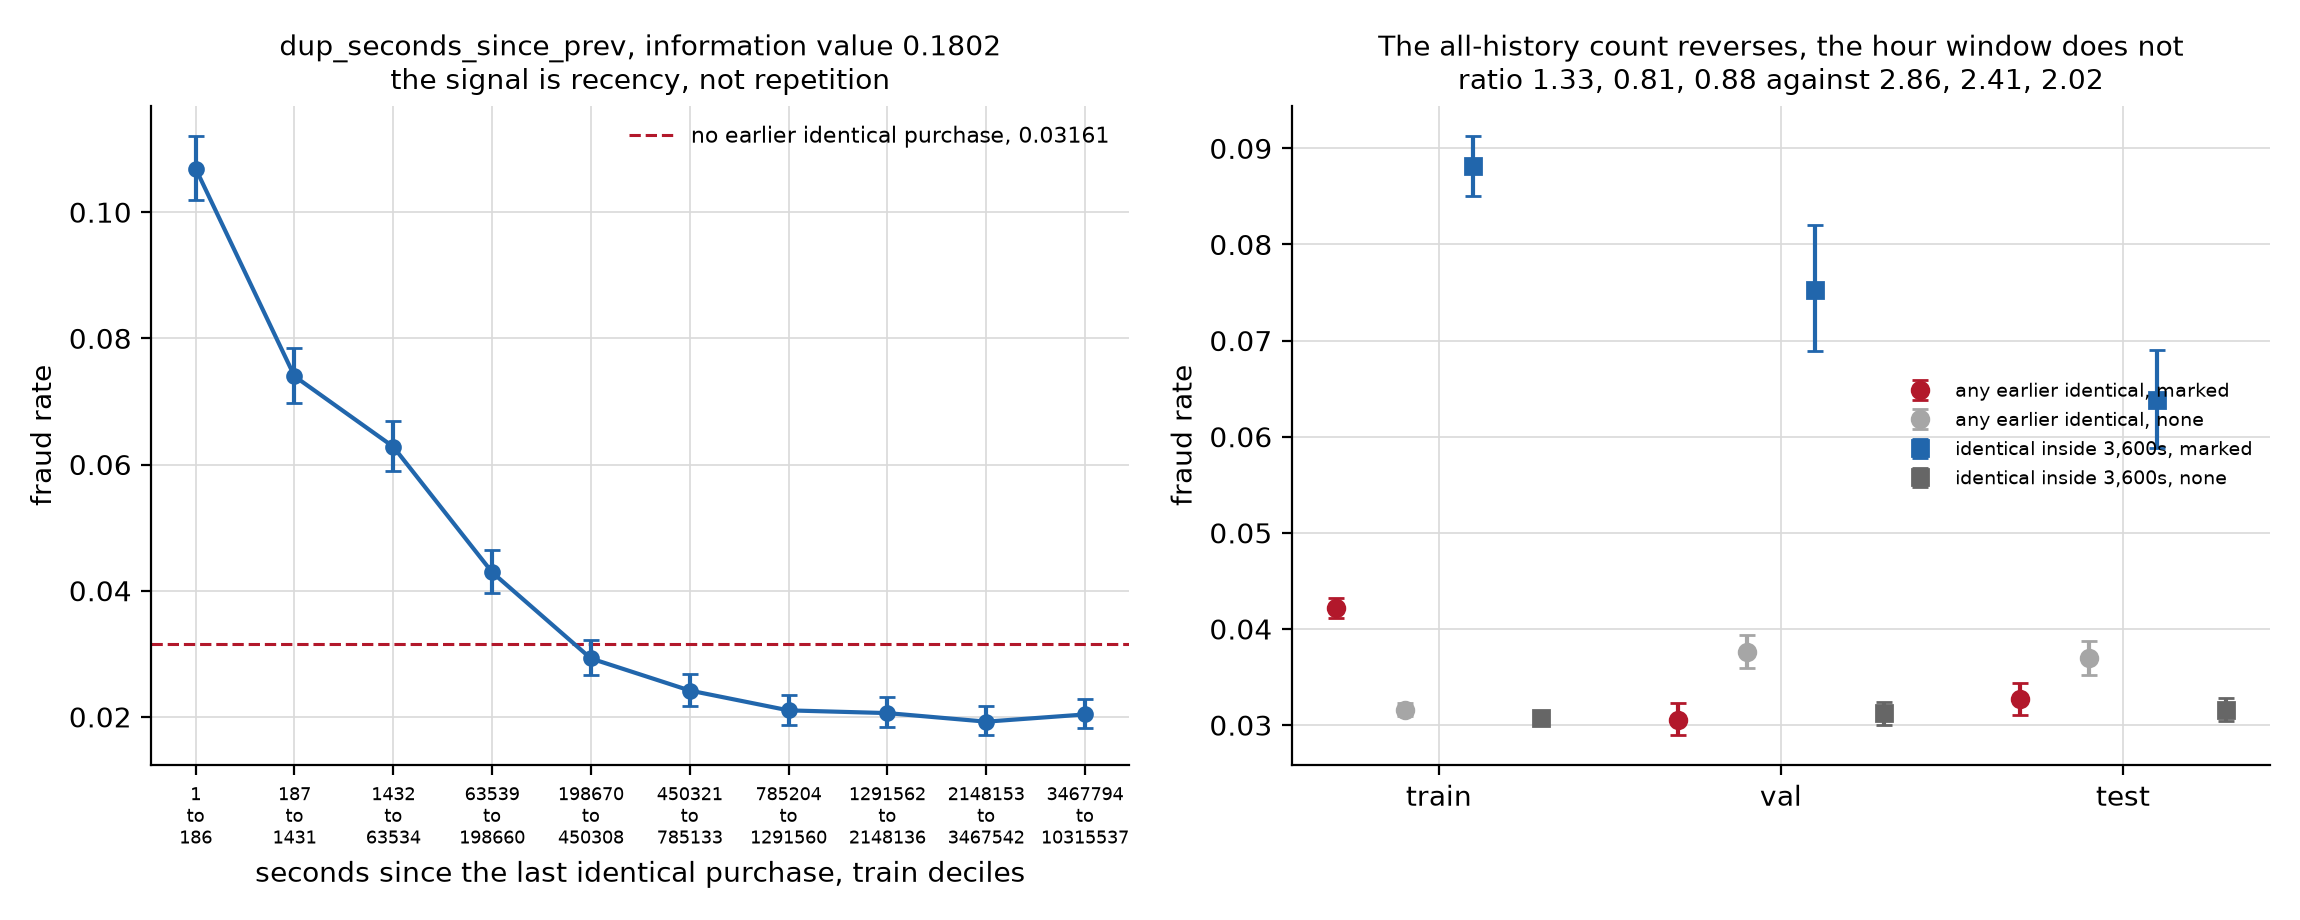
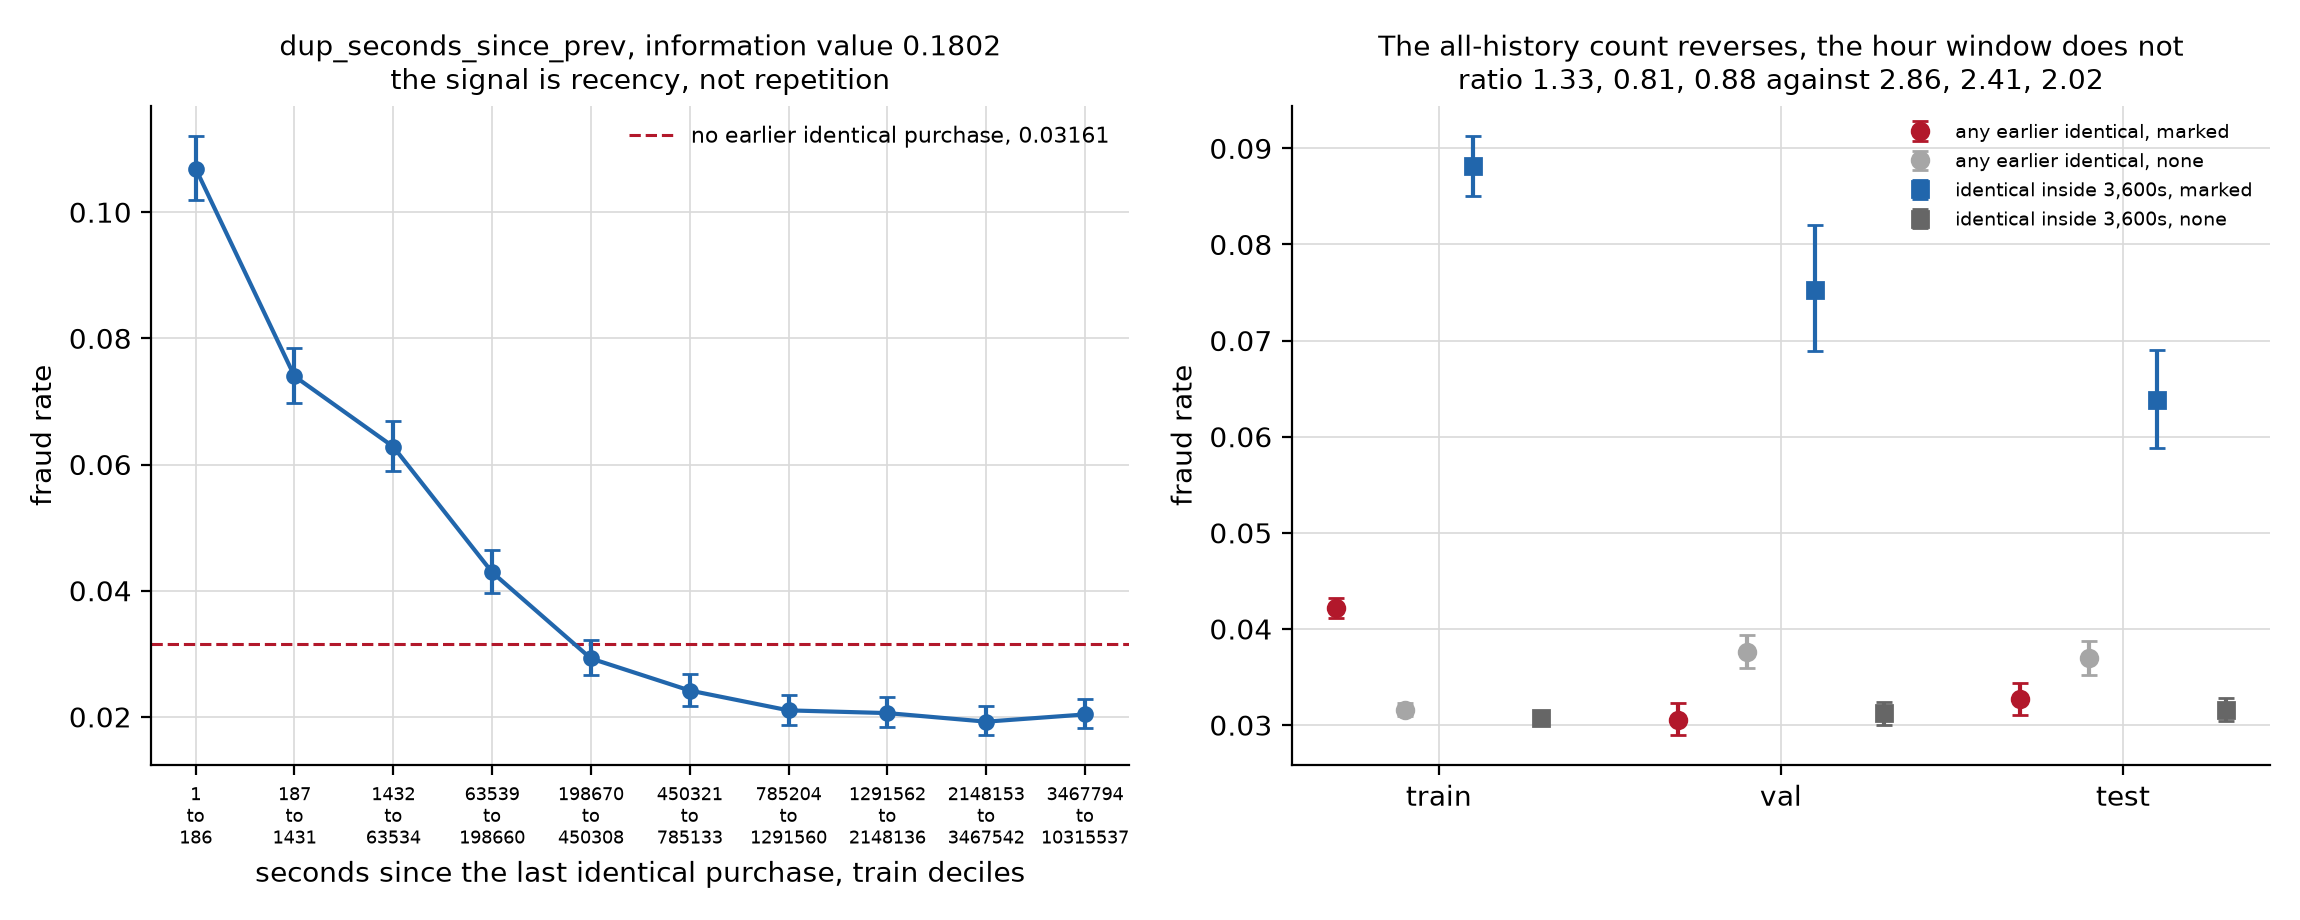
draw the paired intervals on the ablation figure and move a legend off the data

Changed region(s): [[0.8335, 0.3957, 0.9878, 0.5478], [0.8335, 0.1217, 0.9878, 0.2435]]

diff --git a/scripts/train_figures.py b/scripts/train_figures.py
@@ -11,8 +11,10 @@ Figures:
     model_comparison.png    left, test PR-AUC per model with its paired-bootstrap interval;
                             right, the shipped model's paired difference against each of the
                             others, with the interval. From reports/metric_variance.json.
-    ablations.png           validation PR-AUC per feature stack, three seeds each, test beside
-                            it. From reports/ablations.json.
+    ablations.png           left, validation PR-AUC per feature stack, three seeds each, test
+                            beside it; right, each stack's paired-bootstrap difference against
+                            its reference per seed, the interval the ship rule reads. From
+                            reports/ablations.json.
     threshold_curve.png     precision, recall and alerts per day against the calibrated
                             threshold on the validation split, the band edges marked. From
                             reports/threshold_curve.json.
@@ -127,8 +129,12 @@ def model_comparison(report: dict[str, Any], out: Path) -> None:
 
 def ablations(report: dict[str, Any], out: Path) -> None:
     stacks = report["stacks"]
-    fig, ax = plt.subplots(figsize=(11, 6.0))
+    fig, axes = plt.subplots(
+        1, 2, figsize=(15, 6.0), sharey=True, gridspec_kw={"width_ratios": [3, 2]}
+    )
     ys = list(range(len(stacks)))[::-1]
+
+    ax = axes[0]
     for y, entry in zip(ys, stacks, strict=True):
         vals = [row["val_pr_auc"] for row in entry["per_seed"]]
         tests = [row["test_pr_auc"] for row in entry["per_seed"]]
@@ -148,6 +154,44 @@ def ablations(report: dict[str, Any], out: Path) -> None:
     ax.plot([], [], "o", color=RED, mfc="none", label="test")
     ax.legend(fontsize=8, frameon=False, loc="lower right")
     style(ax)
+
+    # The interval the ship rule reads: each stack's validation PR-AUC minus its reference's,
+    # paired on identical resamples, one interval per seed. Red when the interval excludes zero.
+    ax = axes[1]
+    n_seeds = len(report["seeds"])
+    offsets = [(i - (n_seeds - 1) / 2) * 0.22 for i in range(n_seeds)]
+    for y, entry in zip(ys, stacks, strict=True):
+        against = entry.get("against_reference")
+        if against is None:
+            ax.text(0, y, "  reference stack", va="center", fontsize=7, color=GREY)
+            continue
+        highs = []
+        for offset, row in zip(offsets, against["per_seed"], strict=True):
+            diff = row["val_pr_auc_difference"]
+            colour = RED if row["excludes_zero"] else GREY
+            ax.plot([diff["low"], diff["high"]], [y + offset, y + offset], color=colour, lw=1.6)
+            ax.plot(diff["point"], y + offset, "o", color=colour, ms=3.5)
+            highs.append(diff["high"])
+        ax.text(
+            max(highs) + 0.004,
+            y,
+            f"vs {against['reference']}",
+            va="center",
+            ha="left",
+            fontsize=6.5,
+            color=GREY,
+        )
+    ax.axvline(0, color="0.2", lw=0.8)
+    left, right = ax.get_xlim()
+    ax.set_xlim(left, right + 0.06)  # room for the reference labels
+    ax.set_xlabel("stack minus its reference, val PR-AUC, paired 95 percent interval per seed")
+    ax.set_title(
+        "What the ship rule reads: red where the interval excludes zero\n"
+        "a built block ships only if every seed is red and above zero",
+        fontsize=10,
+    )
+    style(ax)
+
     fig.tight_layout()
     fig.savefig(out, dpi=DPI)
     plt.close(fig)

diff --git a/scripts/feature_figures.py b/scripts/feature_figures.py
@@ -308,7 +308,7 @@ def duplicate_content(report: dict[str, Any], out: Path) -> None:
         f"against {hour['train']['lift']:.2f}, {hour['val']['lift']:.2f}, {hour['test']['lift']:.2f}",
         fontsize=10,
     )
-    ax.legend(fontsize=7, frameon=False, loc="center right")
+    ax.legend(fontsize=7, frameon=False, loc="upper right")
     style(ax)
 
     fig.tight_layout()

diff --git a/figures/README.md b/figures/README.md
@@ -20,7 +20,7 @@ numbers.
 | duplicate_content.png | reports/features/duplicate_content.json | fraud rate by time since the last identical purchase |
 | graph_components.png | reports/graph_summary.json | the hub sweep of the end-of-train graph, and fraud rate by decile of the point-in-time component size |
 | model_comparison.png | reports/metric_variance.json | test PR-AUC per model with its paired-bootstrap interval, and the shipped model's paired difference against each |
-| ablations.png | reports/ablations.json | validation and test PR-AUC per feature stack, three seeds each |
+| ablations.png | reports/ablations.json | validation and test PR-AUC per feature stack, three seeds each, and each stack's paired-bootstrap difference against its reference per seed |
 | threshold_curve.png | reports/threshold_curve.json | precision, recall, F1 and alerts per day against the calibrated threshold on validation, band edges marked |
 | calibration.png | reports/operating_points.json | observed fraud rate against predicted probability on test, raw score and calibrated |
 | shap_global.png | reports/shap/shap_global.json | the twenty largest mean absolute SHAP values and the share per block |
@@ -30,3 +30,8 @@ numbers.
 | decay_in_control.png | reports/monitoring/decay.json | the shipped model's PR-AUC on each in-control weekly batch with its interval, the reference it was accepted at and the decay tolerance |
 | adversarial_validation.png | reports/adversarial_validation.json | the twenty columns that best separate train from test once the target encodings are set aside, who-or-when against what |
 | lifecycle_demo.png | reports/lifecycle_demo.json | the drift job per cycle, the decay job per matured batch, and the gate's verdicts on the injected drift |
+
+The architecture diagram, `docs/architecture.svg`, is the one drawing not made from an artifact:
+it is a claim about the code, written by hand, and `tests/test_readme.py` checks that every block
+in it is named in the README's Approach section and that exactly one block carries the emphasis
+colour.
